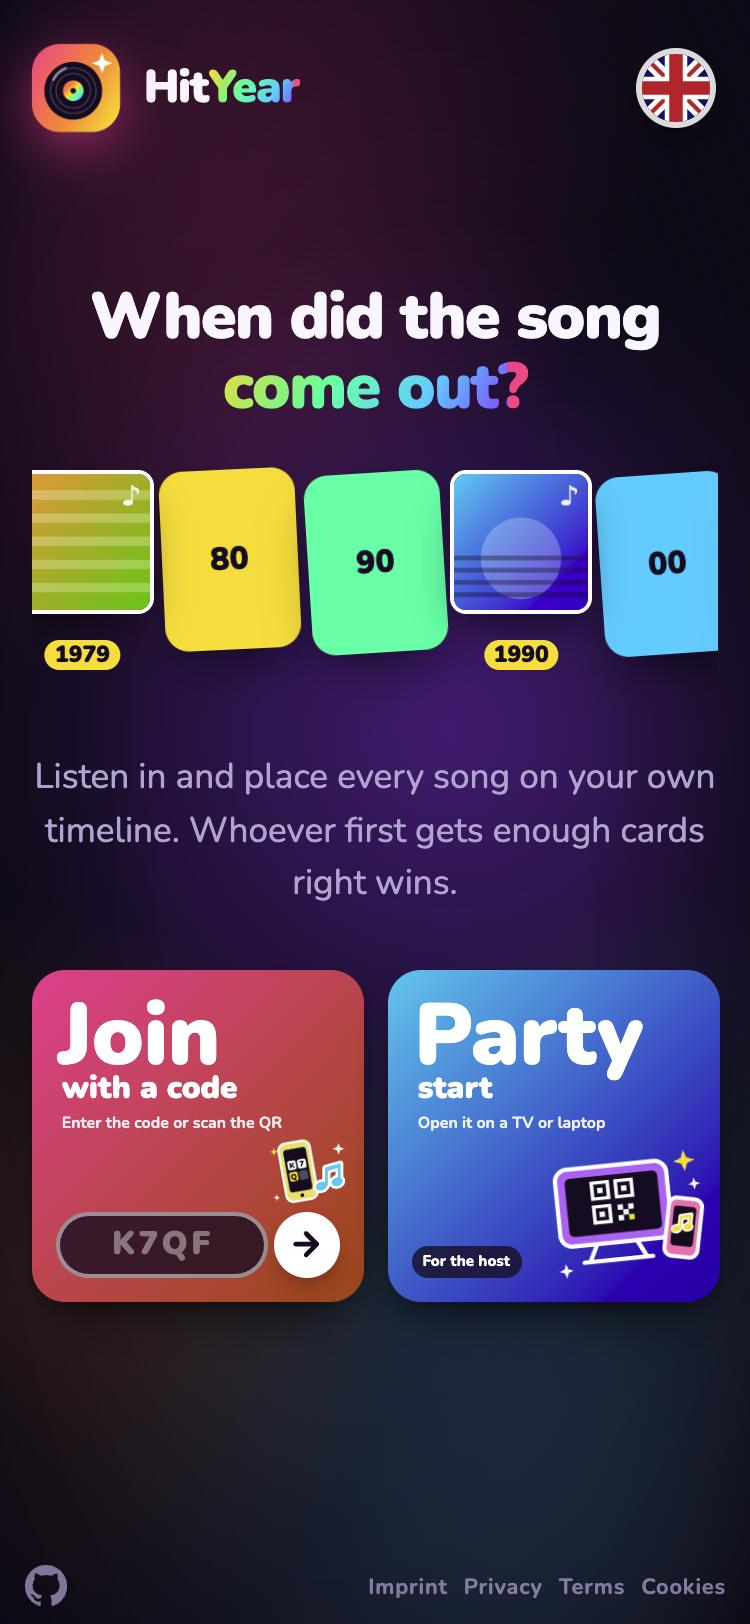
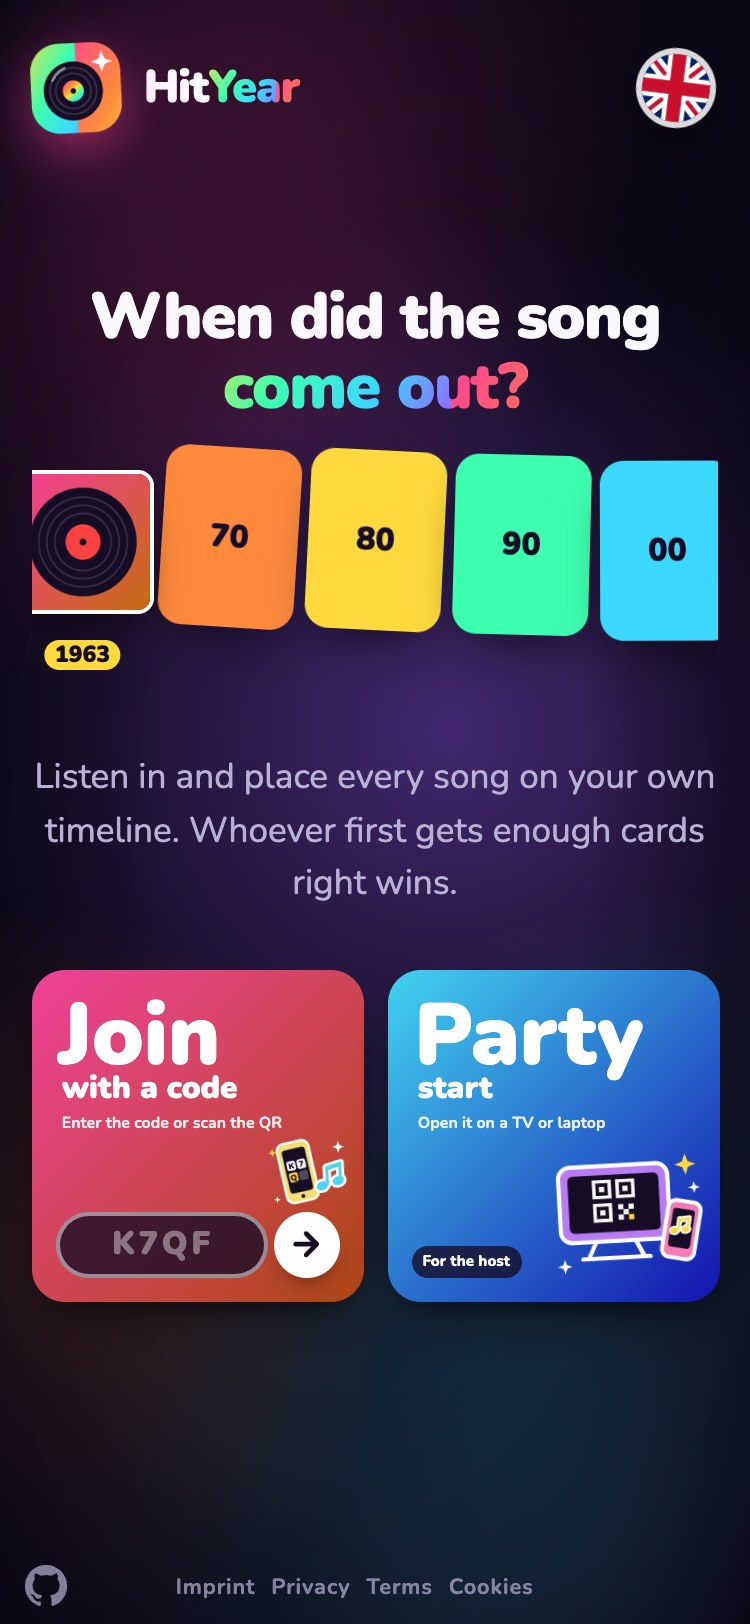
readme: neue Bilder und Stand 1.71
- Bilder neu aufgenommen (Englisch, fremde Cover unscharf): Startseite, Einrichtung, Decks, Lobby,
  Runde am Hauptbildschirm, Handy-Start, Handy in der Runde; neu: Sprachmenü
- 29 Sprachen, je Sprache eine Datei unter public/js/sprachen/, ?lang=xx, Codefeld für fremde Tastaturen
- Zifferntasten (Anzeige nur am Fernseher), Demo-Party, strengerer Sparmodus, 20 Equalizer-Stile,
  Beitritt während der Runde, Offline-Countdown, Fußzeile mit Version und Gerät
- CONTRIBUTING: neue Texte in alle Sprachdateien

diff --git a/README.de.md b/README.de.md
@@ -9,7 +9,7 @@
 - 1–6 Spielerinnen und Spieler, jede Person mit dem eigenen Handy – oder allein gegen KI-Bots üben: QR-Code scannen oder Code eingeben, ohne App. Optional schützt ein gemeinsames Passwort die ganze App; per QR-Code geht es ohne.
 - Ein Hauptbildschirm (TV, Laptop, Beamer) zeigt QR-Code, Musik-Player, Mitspieler und die Auflösung.
 - Die Musik kommt als 30-Sekunden-Hörprobe, die der Browser **direkt von Deezer** streamt (Apple Music als Ausweichquelle) – der Server speichert keine Musik. Optional eigene Sammlung, aus der der Server kurze Ausschnitte schneidet.
-- Oberfläche in 🇩🇪 Deutsch, 🇬🇧 English, 🇫🇷 Français, 🇮🇹 Italiano, 🇪🇸 Español und 🇧🇷 Português (Brasil).
+- Oberfläche in **29 Sprachen** – Deutsch, English, Français, Italiano, Español, Português (Brasil und Portugal), Nederlands, Polski, Türkçe, Русский, Українська, Svenska, Norsk, Dansk, Suomi, Čeština, Slovenčina, Magyar, Română, Български, Ελληνικά, Hrvatski, Srpski, Shqip, Català, 日本語, עברית und العربية.
 
 Spielen: <https://hityear.app> · Repo: <https://github.com/WTK1611/hityear> · Lizenz: [PolyForm Noncommercial 1.0.0](LICENSE.md) (frei nutzbar, änderbar, weitergebbar – **nicht kommerziell**) · [Mitmachen erwünscht](CONTRIBUTING.md)
 
@@ -21,9 +21,9 @@ Spielen: <https://hityear.app> · Repo: <https://github.com/WTK1611/hityear> · 
 | **Lobby: Mitspieler und KI-Bots** | **Runde am Hauptbildschirm** |
 | ![Lobby mit einer Spielerin am Handy und fünf Bots](docs/bilder/host-lobby.jpg) | ![Hauptbildschirm in der Runde: Schallplatte, Equalizer, alle Zeitstrahle](docs/bilder/host-runde.jpg) |
 
-| Handy: Startseite | Handy: eigener Zeitstrahl |
-|---|---|
-| <img src="docs/bilder/handy-start.jpg" width="260" alt="Startseite am Handy mit zwei Kacheln nebeneinander"> | <img src="docs/bilder/handy.jpg" width="260" alt="Handy in der Runde: Equalizer und eigener Zeitstrahl"> |
+| Handy: Startseite | Handy: eigener Zeitstrahl | Sprachmenü (29 Sprachen) |
+|---|---|---|
+| <img src="docs/bilder/handy-start.jpg" width="240" alt="Startseite am Handy mit zwei Kacheln nebeneinander"> | <img src="docs/bilder/handy.jpg" width="240" alt="Handy in der Runde: Equalizer, eigener Zeitstrahl und wer schon getippt hat"> | <img src="docs/bilder/sprachen.jpg" width="320" alt="Offenes Sprachmenü mit Flaggen, acht Sprachen sichtbar, der Rest scrollt"> |
 
 ---
 
@@ -58,23 +58,23 @@ Der Hauptbildschirm stellt pro Schritt eine Frage, die Antworten sind große Kac
 
 | Bereich | Was es kann |
 |---|---|
-| **Beitreten** | Raumcode (4 Zeichen, verwechslungsarm: S/5, Z/2, B/8 werden toleriert) oder QR-Code mit Einladungs-Token; Kamera-Scan auf der Startseite |
-| **Synchron spielen** | Server-autoritativer Zustand, gemeinsamer Startzeitpunkt auf der Serveruhr, Uhrabgleich per Ping, Stand-Nummer mit Abgleich alle 2 s samt Lebenszeichen (ohne Antwort → sofort neu verbinden), gezielte Nachfrage zu Auflösung und nächstem Song, Handshake vor jedem Songwechsel (höchstens 10 s „Warte auf …“), Hinweis bei Verbindungsverlust |
+| **Beitreten** | Raumcode (4 Zeichen, verwechslungsarm: S/5, Z/2, B/8 werden toleriert; keine Codes, die sich als anstößiges Wort lesen) oder QR-Code mit Einladungs-Token; Kamera-Scan auf der Startseite; das Codefeld klappt auch mit kyrillischer, griechischer oder arabischer Tastatur (gleich aussehende Buchstaben und Ziffern werden umgesetzt, sonst bittet ein Hinweis ums Umschalten). Wer während einer Runde beitritt, darf den laufenden Song noch einordnen |
+| **Synchron spielen** | Server-autoritativer Zustand, gemeinsamer Startzeitpunkt auf der Serveruhr, Uhrabgleich per Ping, Stand-Nummer mit Abgleich alle 2 s samt Lebenszeichen (ohne Antwort → sofort neu verbinden), gezielte Nachfrage zu Auflösung und nächstem Song, Handshake vor jedem Songwechsel (höchstens 10 s „Warte auf …“), Hinweis bei Verbindungsverlust; sind alle offline, zählt der Hauptbildschirm 15 s herunter und macht weiter, nach 3 solchen Runden pausiert das Spiel |
 | **Handy-Leistung** | Aufwendiger animierter Hintergrund nur am Hauptbildschirm; Handys bekommen einen ruhenden Verlauf ohne Weichzeichner (der teure Hintergrund ließ iPhones bei jedem Songwechsel 10–27 s einfrieren) |
-| **Fehlersuche** | Geräte melden Hänger der Seite, Trennungen und ausbleibende Antworten ins Server-Log (`[diagnose]`, `[verbindung]`, `[bereit]`) |
+| **Fehlersuche** | Geräte melden Hänger der Seite, Trennungen und ausbleibende Antworten ins Server-Log (`[diagnose]`, `[verbindung]`, `[bereit]`); die Fußzeile zeigt Live-Spiele, App-Version (1.<Anzahl Commits>) und das erkannte Gerät (tv/tb/sp/pc) |
 | **Rechtliches** | Impressum, Datenschutz, Nutzungsbedingungen (AGB), Links in der Fußzeile; anonyme Statistik (Matomo auf eigenem Server) nur mit Einwilligung, auf der Cookie-Seite widerrufbar |
 | **Suchmaschinen** | Startseite und „So geht's“ sind indexierbar (`robots.txt`, `sitemap.xml`, `llms.txt`); API, Räume, Hauptbildschirm, Handy und Bibliothek senden `noindex` |
 | **Startseite** | Zwei quadratische Kacheln: *Spielen mit Code* (Code-Feld direkt auf der Kachel, eigene Fehlermeldung) und *Party starten*; am Handy nebeneinander |
 | **Einrichtung** | Geführte Einrichtung mit Kacheln (Verlauf, Aufkleber-Bild, Schatten), Partikel bei jedem Tipp, Decks als Plattenhüllen, die aus dem Namen gestaltet sind (Flagge, Symbol), Startkarte wird vor dem ersten Song aufgedeckt |
-| **Hauptbildschirm** | QR-Code, drehende Schallplatte, die im Bass vibriert, Equalizer in 9 Stilen (Klick oder ←/→ schaltet um), Fortschrittsleiste, Mitspieler-Raster mit Live-Status (überlegt, getippt, rät), Ergebnis-Banner mit Sternen, „+1“-Animationen, Konfetti, Bestenliste |
-| **Handy** | Eigener Zeitstrahl zum Antippen, Countdown, geführtes Raten (Jahr → Interpret → Titel), Vibration, Bildschirm bleibt wach (Wake Lock) |
-| **TV-tauglich** | Eigene Schrift (Nunito), SVG-Symbole statt Sonderzeichen, Abstand gegen Overscan, Bedienung mit der Fernbedienung durch alle Kacheln (Pfeiltasten + OK), passt ohne Scrollen auf 960×540, Sparmodus für Fernseher und alte Geräte (keine Dauer-Animationen, gedrosselter Equalizer) |
+| **Hauptbildschirm** | QR-Code, drehende Schallplatte, die im Bass vibriert, Equalizer in 20 Stilen (Klick oder ←/→ schaltet um), Fortschrittsleiste, Mitspieler-Raster mit Live-Status (überlegt, getippt, rät), Auflösung mit Genre und Quellenlink, Ergebnis-Banner mit Sternen, „+1“-Animationen, Konfetti, Bestenliste |
+| **Handy** | Eigener Zeitstrahl zum Antippen, Stand im Kopf, wer schon getippt hat, Countdown, geführtes Raten (Jahr → Interpret → Titel), Vibration, Bildschirm bleibt wach (Wake Lock); der Gastgeber dreht das Handy quer und sieht das Spielfeld wie am Fernseher |
+| **TV-tauglich** | Eigene Schrift (Nunito), SVG-Symbole statt Sonderzeichen, Abstand gegen Overscan, Bedienung mit der Fernbedienung durch alle Kacheln (Pfeiltasten + OK) und Zifferntasten (1 = Empfehlung/Weiter, 2–9 wählen, 0 = Zurück; die Ziffern stehen nur am Fernseher dran, am PC gehen die Tasten ohne Anzeige), passt ohne Scrollen auf 960×540, Sparmodus für Fernseher und alte Geräte (Animationen laufen einmal, keine Leuchtfilter, gedrosselter Equalizer), Demo-Party mit Bots nach 5 Minuten ohne Bedienung am Fernseher |
 | **Anti-Schummeln** | Ausschnitte ohne Metadaten mit Einmal-URLs; Titel und Jahr kommen erst mit der Auflösung zum Gerät |
 | **Audio** | Hörproben direkt von Deezer gestreamt (Apple Music als Ausweichquelle), mit Quellenhinweis; bei eigenen Dateien: Startpunkt zufällig bei 20–60 % der Songlänge, Ein- und Ausblenden, Lautstärke angeglichen (`loudnorm`) |
 | **Bibliothek** | Vorschauen von Apple/Deezer als Einträge (keine Dateien), optional Scan eigener Dateien (MP3, M4A, FLAC, OGG, Opus), Jahr aus manueller Angabe > Songliste (Originaljahr) > Tag bzw. Apple/Deezer > Jahrescharts, Prüfliste, Duplikate, Songs ausschließen |
 | **Decks** | Eigene Decks zusammenstellen; Playlists von Deezer/Apple Music oder eigene Songlisten (CSV) importieren |
 | **Hintergrund** | Eigene Geschichten zum Song |
-| **Sprachen** | 6 Sprachen; Umschalter mit Flaggen oben rechts auf der Startseite, sonst die Sprache des Browsers |
+| **Sprachen** | 29 Sprachen, je Sprache eine Datei (`public/js/sprachen/<code>.js`), geladen wird nur die gewählte; Flaggenmenü auf der Startseite (8 sichtbar, der Rest scrollt; Fernbedienung: 3 öffnet, Ziffern wählen, 9/0 blättern), `?lang=xx` im Link, sonst die Sprache des Browsers. Hebräisch und Arabisch behalten das Layout von links nach rechts |
 | **App-Gefühl** | Web-App-Manifest und Icons (zum Home-Bildschirm hinzufügen) |
 | **Marketing** | `/marketing`: Bilder (Quadrat, Story, Link-Vorschau; DE/EN) und fertige Posttexte für soziale Netzwerke |
 
@@ -116,7 +116,7 @@ flowchart TB
 | Echtzeit | Socket.IO 4 mit Verbindungs-Wiederherstellung (2 min) und Ping alle 5 s |
 | Daten | SQLite über `node:sqlite` |
 | Audio | ffmpeg (libmp3lame, loudnorm, afade) |
-| Frontend | HTML, CSS und Vanilla-JS ohne Bundler; Übersetzung über `public/js/i18n.js` |
+| Frontend | HTML, CSS und Vanilla-JS ohne Bundler; Übersetzungen in `public/js/sprachen/<code>.js` |
 | Betrieb | Docker Compose hinter einem Reverse Proxy; Ausrollen per GitHub Actions |
 
 ### Module (`src/`)
@@ -142,7 +142,7 @@ flowchart TB
 | `admin.html` + `js/admin.js` | Bibliothek, Decks (nur Deutsch) |
 | `so-gehts.html`, `marketing.html` + `js/marketing.js` | Spielanleitung; Bilder und Posttexte zum Teilen |
 | `js/gemeinsam.js` | Gemeinsame Bausteine: Socket, Uhrabgleich, Player, Equalizer, Countdown, Fernbedienung |
-| `js/i18n.js` | Sprachen: übersetzt alle Texte der Seite über eine Tabelle (Deutsch → Zielsprache) |
+| `js/i18n.js` + `js/sprachen/*.js` | Sprachen: wählt die Sprache, lädt ihre Tabelle und übersetzt alle Texte der Seite (Deutsch → Zielsprache) |
 
 Mehr dazu in [`docs/ARCHITEKTUR.md`](docs/ARCHITEKTUR.md).
 
@@ -205,7 +205,7 @@ Beiträge sind willkommen – siehe [CONTRIBUTING.md](CONTRIBUTING.md). Die Rege
 - Keine Build-Schritte und keine Frontend-Frameworks: TypeScript läuft direkt in Node, das Frontend ist Vanilla-JS.
 - Spielregeln gehören als reine Funktionen in `game.ts` und bekommen Tests in `test/`.
 - Der Server entscheidet alles. Geräte bekommen nur, was sie sehen dürfen (`sicht()`).
-- Neue Texte im Frontend auf Deutsch schreiben und in `public/js/i18n.js` für alle Sprachen ergänzen.
+- Neue Texte im Frontend auf Deutsch schreiben und in jeder Datei unter `public/js/sprachen/` ergänzen (`test/i18n.test.ts` prüft, dass keiner fehlt).
 - Nie Passwörter, Schlüssel oder `.env`-Inhalte ins Repo, in Commits oder Logs.
 - Vor jedem Push: `npm run typecheck && npm test`.
 

diff --git a/README.md b/README.md
@@ -9,7 +9,7 @@
 - 1–6 players, each on their own phone – or practise alone against AI bots: scan the QR code or type the room code. No app. Optionally a shared password protects the whole app; the QR code lets guests in without it.
 - One main screen (TV, laptop, projector) shows the QR code, the music player, all players and the reveal.
 - Music comes as 30-second previews that the browser streams **directly from Deezer** (Apple Music as a fallback) – the server stores no music. Optionally your own collection, from which the server cuts short clips.
-- Interface in 🇩🇪 Deutsch, 🇬🇧 English, 🇫🇷 Français, 🇮🇹 Italiano, 🇪🇸 Español and 🇧🇷 Português (Brasil).
+- Interface in **29 languages** – Deutsch, English, Français, Italiano, Español, Português (Brasil and Portugal), Nederlands, Polski, Türkçe, Русский, Українська, Svenska, Norsk, Dansk, Suomi, Čeština, Slovenčina, Magyar, Română, Български, Ελληνικά, Hrvatski, Srpski, Shqip, Català, 日本語, עברית and العربية.
 
 Play: <https://hityear.app> · Repo: <https://github.com/WTK1611/hityear> · License: [PolyForm Noncommercial 1.0.0](LICENSE.md) (free to use, modify and share – **not commercially**) · [Contributions welcome](CONTRIBUTING.md)
 
@@ -21,9 +21,9 @@ Play: <https://hityear.app> · Repo: <https://github.com/WTK1611/hityear> · Lic
 | **Lobby: players and AI bots** | **Round on the main screen** |
 | ![Lobby with one phone player and five bots](docs/bilder/host-lobby.jpg) | ![Main screen during a round: record, equalizer, all timelines](docs/bilder/host-runde.jpg) |
 
-| Phone: home page | Phone: your timeline |
-|---|---|
-| <img src="docs/bilder/handy-start.jpg" width="260" alt="Home page on the phone with two tiles side by side"> | <img src="docs/bilder/handy.jpg" width="260" alt="Phone during a round: equalizer and your own timeline"> |
+| Phone: home page | Phone: your timeline | Language menu (29 languages) |
+|---|---|---|
+| <img src="docs/bilder/handy-start.jpg" width="240" alt="Home page on the phone with two tiles side by side"> | <img src="docs/bilder/handy.jpg" width="240" alt="Phone during a round: equalizer, your own timeline and who has already tapped"> | <img src="docs/bilder/sprachen.jpg" width="320" alt="Open language menu with flags, eight languages visible, the rest scrolls"> |
 
 ---
 
@@ -58,23 +58,23 @@ The main screen asks one question per step, the answers are big tiles (on phones
 
 | Area | What it does |
 |---|---|
-| **Joining** | 4-character room code (S/5, Z/2, B/8 mix-ups are tolerated) or QR code with an invite token; camera scan on the home page |
-| **In sync** | Server-authoritative state, shared start time on the server clock, clock sync via ping, state counter checked every 2 s with a liveness reply (no reply → reconnect at once), targeted re-check at reveal and next song, handshake before every song change (at most 10 s “Waiting for …”), notice when the connection drops |
+| **Joining** | 4-character room code (S/5, Z/2, B/8 mix-ups are tolerated; no codes that read as rude words) or QR code with an invite token; camera scan on the home page; the code field also works with Cyrillic, Greek or Arabic keyboards (look-alike letters and digits are mapped, otherwise a hint asks to switch). Whoever joins during a round can still place the current song |
+| **In sync** | Server-authoritative state, shared start time on the server clock, clock sync via ping, state counter checked every 2 s with a liveness reply (no reply → reconnect at once), targeted re-check at reveal and next song, handshake before every song change (at most 10 s “Waiting for …”), notice when the connection drops; if all players are offline the main screen counts down 15 s and continues, after 3 such rounds it pauses |
 | **Phone performance** | The heavy animated background runs only on the main screen; phones get a calm static gradient without blur (the heavy background froze iPhones for 10–27 s at every song change) |
-| **Debugging** | Devices report page freezes, disconnects and missing replies to the server log (`[diagnose]`, `[verbindung]`, `[bereit]`) |
+| **Debugging** | Devices report page freezes, disconnects and missing replies to the server log (`[diagnose]`, `[verbindung]`, `[bereit]`); the footer shows live games, app version (1.<number of commits>) and the detected device (tv/tb/sp/pc) |
 | **Legal** | Legal notice, privacy policy, terms of use, footer links; anonymous statistics (self-hosted Matomo) only with consent, revocable on the cookie page |
 | **Search engines** | Home page and “How to play” are indexable (`robots.txt`, `sitemap.xml`, `llms.txt`); API, rooms, main screen, phone and library send `noindex` |
 | **Home page** | Two square tiles: *Join with a code* (code field right on the tile, own error message) and *Start a party*; on phones side by side |
 | **Setup** | Guided setup with tiles (gradient, sticker image, shadow), a particle burst on every tap, decks as record sleeves designed from their name (flag, symbol), starting card revealed before the first song |
-| **Main screen** | QR code, spinning record that shakes to the bass, equalizer in 9 styles (click or ←/→ switches), progress bar, player grid with live status (thinking, placed, guessing), result banners with stars, “+1” animations, confetti, leaderboard |
-| **Phone** | Tappable personal timeline, countdown, guided guessing (year → artist → title), vibration, screen stays awake (Wake Lock) |
-| **TV-friendly** | Bundled font (Nunito), SVG icons instead of special characters, overscan margins, remote-control navigation through every tile (arrow keys + OK), fits 960×540 without scrolling, power-saving mode for TVs and old devices (no continuous animations, throttled equalizer) |
+| **Main screen** | QR code, spinning record that shakes to the bass, equalizer in 20 styles (click or ←/→ switches), progress bar, player grid with live status (thinking, placed, guessing), reveal with genre tag and source link, result banners with stars, “+1” animations, confetti, leaderboard |
+| **Phone** | Tappable personal timeline, score in the header, who has already tapped, countdown, guided guessing (year → artist → title), vibration, screen stays awake (Wake Lock); the host turns the phone sideways to get the main-screen view |
+| **TV-friendly** | Bundled font (Nunito), SVG icons instead of special characters, overscan margins, remote-control navigation through every tile (arrow keys + OK) and number keys (1 = recommended/next, 2–9 choose, 0 = back; the numbers are shown only on TVs, on a PC the keys work without them), fits 960×540 without scrolling, power-saving mode for TVs and old devices (animations run once, no glow filters, throttled equalizer), demo party with bots after 5 minutes without input on a TV |
 | **Anti-cheat** | Clips without metadata behind one-time URLs; title and year only reach devices with the reveal |
 | **Audio** | Previews streamed directly from Deezer (Apple Music as a fallback) with a source badge; for own files: random start at 20–60 % of the song, fade in/out, loudness normalisation (`loudnorm`) |
 | **Library** | Apple/Deezer previews as entries (no files), optional scan of own files (MP3, M4A, FLAC, OGG, Opus), year from manual entry > song list (original year) > tag or Apple/Deezer > year-end charts, review list, duplicates, exclude songs |
 | **Decks** | Build custom decks; import Deezer/Apple Music playlists or your own song lists (CSV) |
 | **Trivia** | Your own stories per song |
-| **Languages** | 6 languages; flag switcher at the top right of the home page, otherwise the browser language |
+| **Languages** | 29 languages, one file per language (`public/js/sprachen/<code>.js`), only the chosen one is loaded; flag menu on the home page (8 visible, the rest scrolls; remote: 3 opens, digits choose, 9/0 page), `?lang=xx` in the link, otherwise the browser language. Hebrew and Arabic keep the left-to-right layout |
 | **App feel** | Web app manifest and icons (add to home screen) |
 | **Marketing** | `/marketing`: images (square, story, link preview; DE/EN) and ready-made post texts for social networks |
 
@@ -116,7 +116,7 @@ flowchart TB
 | Real time | Socket.IO 4 with connection state recovery (2 min) and a 5 s ping |
 | Data | SQLite via `node:sqlite` |
 | Audio | ffmpeg (libmp3lame, loudnorm, afade) |
-| Frontend | HTML, CSS and vanilla JS without a bundler; translations in `public/js/i18n.js` |
+| Frontend | HTML, CSS and vanilla JS without a bundler; translations in `public/js/sprachen/<code>.js` |
 | Operations | Docker Compose behind a reverse proxy; deployment via GitHub Actions |
 
 ### Modules (`src/`)
@@ -142,7 +142,7 @@ flowchart TB
 | `admin.html` + `js/admin.js` | Library, decks (German only) |
 | `so-gehts.html`, `marketing.html` + `js/marketing.js` | How to play; images and post texts for sharing |
 | `js/gemeinsam.js` | Shared building blocks: socket, clock sync, player, equalizer, countdown, remote control |
-| `js/i18n.js` | Languages: translates every text on the page via a table (German → target language) |
+| `js/i18n.js` + `js/sprachen/*.js` | Languages: picks the language, loads its table and translates every text on the page (German → target language) |
 
 The source code, comments and identifiers are in German. More detail (German): [`docs/ARCHITEKTUR.md`](docs/ARCHITEKTUR.md).
 
@@ -205,7 +205,7 @@ Contributions are welcome – see [CONTRIBUTING.md](CONTRIBUTING.md). Rules in s
 - No build steps and no frontend frameworks: TypeScript runs directly in Node, the frontend is vanilla JS.
 - Game rules belong in `game.ts` as pure functions, with tests in `test/`.
 - The server decides everything. Devices only receive what they may see (`sicht()`).
-- Write new UI texts in German and add them for every language in `public/js/i18n.js`.
+- Write new UI texts in German and add them to every file in `public/js/sprachen/` (`test/i18n.test.ts` checks that none is missing).
 - Never put passwords, keys or `.env` contents into the repo, commits or logs.
 - Before every push: `npm run typecheck && npm test`.
 

diff --git a/CONTRIBUTING.md b/CONTRIBUTING.md
@@ -8,7 +8,7 @@ Schön, dass du mitmachen willst. Issues und Pull Requests sind willkommen – F
 - Kein Build-Schritt, keine Frontend-Frameworks: TypeScript läuft direkt in Node, das Frontend ist Vanilla-JS.
 - Spielregeln gehören als reine Funktionen in `src/game.ts` und bekommen Tests in `test/`.
 - Der Server entscheidet alles; Geräte bekommen nur, was sie sehen dürfen.
-- Neue Texte auf Deutsch schreiben und in `public/js/i18n.js` für alle sechs Sprachen ergänzen.
+- Neue Texte auf Deutsch schreiben und in jeder Datei unter `public/js/sprachen/` ergänzen (29 Sprachen; `test/i18n.test.ts` prüft, dass keiner fehlt).
 - Vor jedem Push: `npm run typecheck && npm test` (und `npm run test:e2e`, wenn `ffmpeg` installiert ist).
 - Keine Passwörter, Schlüssel, `.env`-Inhalte, Musikdateien oder Chartdaten ins Repo.
 
@@ -28,6 +28,6 @@ veröffentlicht wird, so wie das übrige Projekt. Du bestätigst, dass du die Re
 
 Issues and pull requests are welcome. Code, comments, commits and identifiers are in **German**; issues and PRs may be in English.
 No build step, no frontend frameworks. Game rules live in `src/game.ts` as pure functions with tests in `test/`.
-New UI texts go into `public/js/i18n.js` for all six languages. Run `npm run typecheck && npm test` before pushing.
+New UI texts go into every file in `public/js/sprachen/` (29 languages; `test/i18n.test.ts` checks that none is missing). Run `npm run typecheck && npm test` before pushing.
 By opening a pull request you agree that your contribution is licensed under the
 [PolyForm Noncommercial License 1.0.0](LICENSE.md) like the rest of the project.
